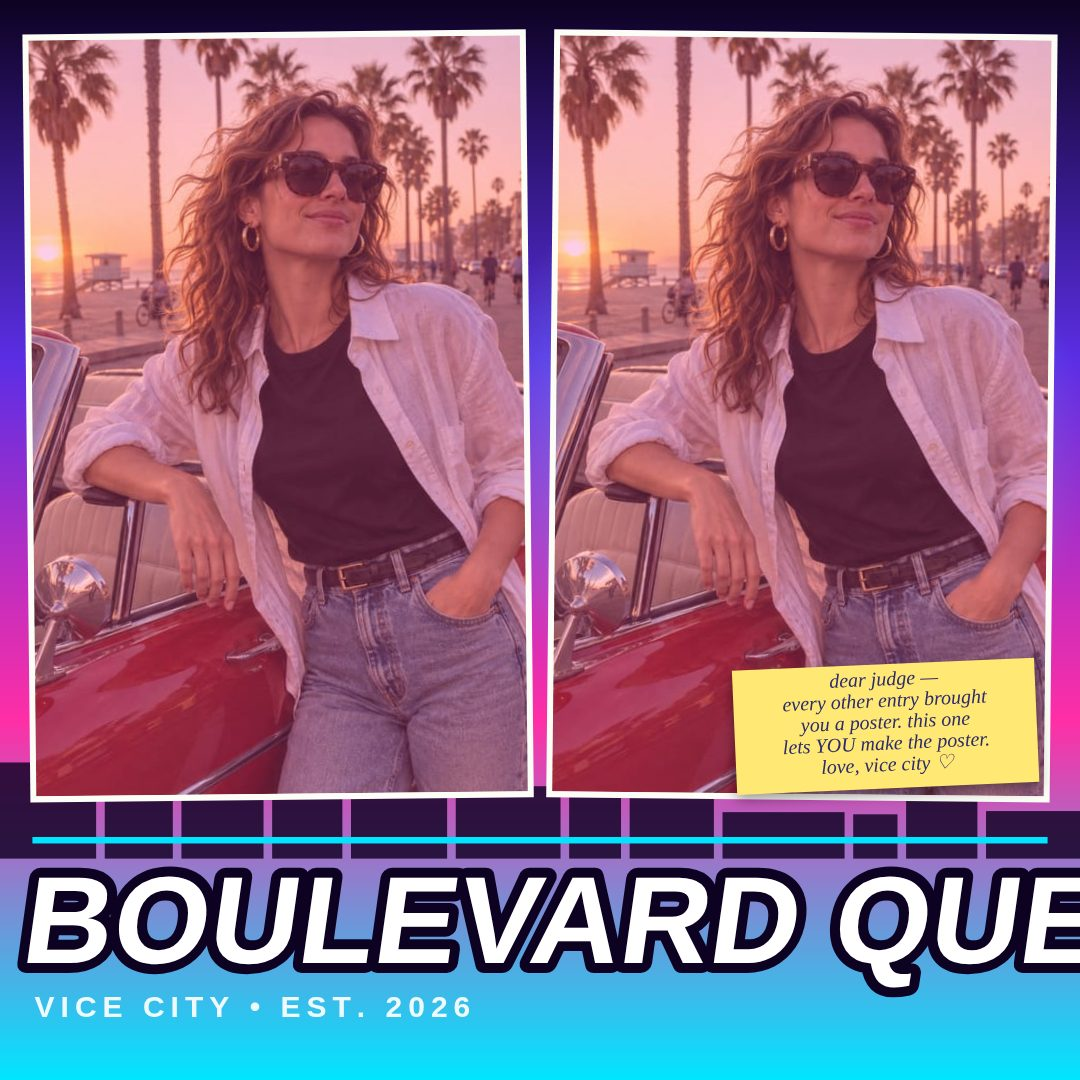
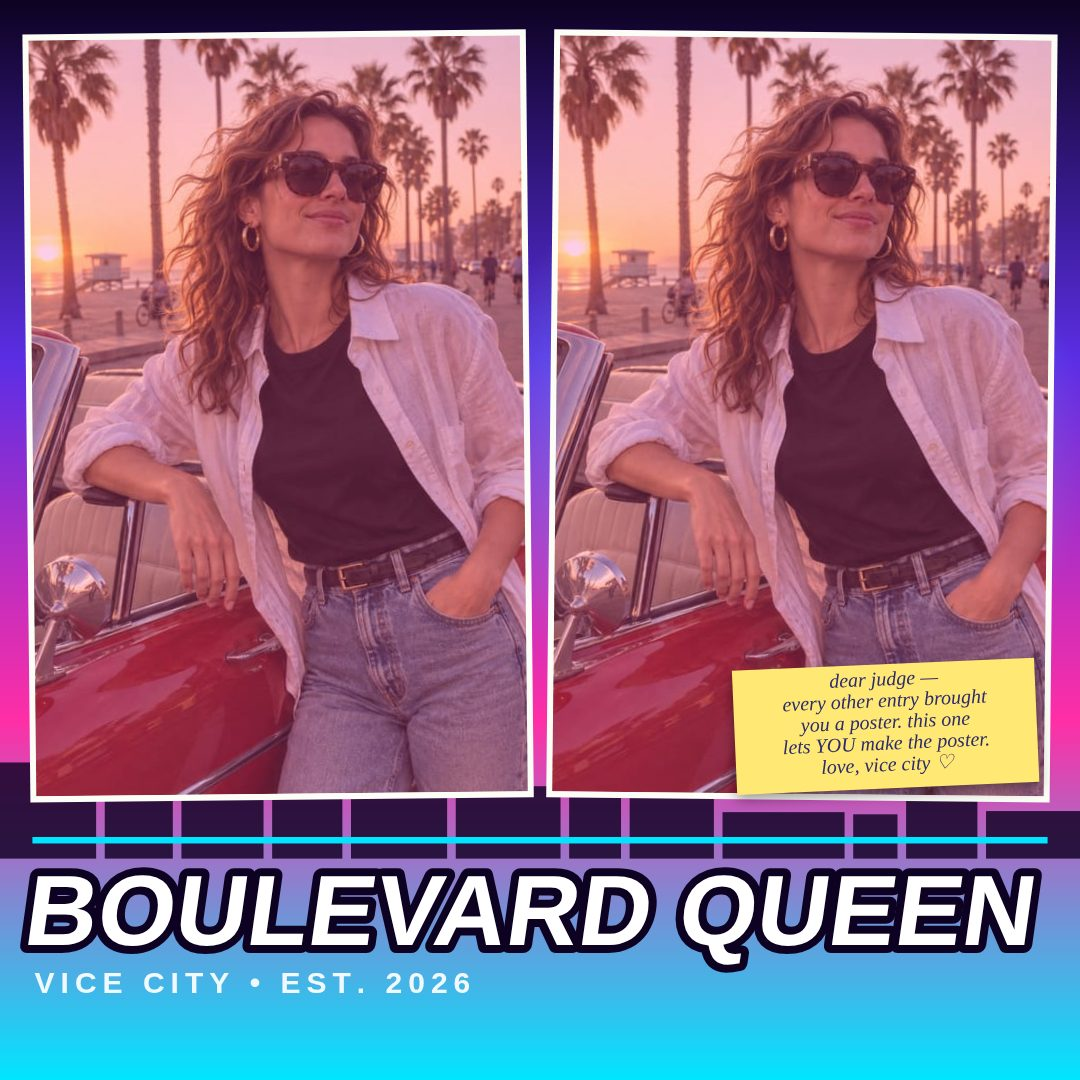
Auto-fit long titles; regenerate screenshots

Changed region(s): [[0.0, 0.7944, 1.0, 0.9472]]

diff --git a/app/vice.js b/app/vice.js
@@ -144,13 +144,24 @@ function drawPanels(W, H) {
   });
 }
 
+/* Shrink the title font until the text fits maxWidth (long titles). */
+function fitTitle(c, text, maxWidth, baseSize) {
+  let size = baseSize;
+  c.font = `900 ${size}px "Arial Black", Arial, sans-serif`;
+  while (size > 36 && c.measureText(text).width > maxWidth) {
+    size -= 4;
+    c.font = `900 ${size}px "Arial Black", Arial, sans-serif`;
+  }
+  return size;
+}
+
 function drawTitle(W, H) {
   const g = GRADES[state.grade];
   const bandY = H * 0.775;
   // Hot-pink bar above the title, like a poster masthead rule.
   ctx.fillStyle = g.bar;
   ctx.fillRect(W * 0.03, bandY, W * 0.94, Math.max(4, H * 0.006));
-  const size = Math.round(W * 0.115);
+  const size = fitTitle(ctx, state.title.toUpperCase(), W * 0.94, Math.round(W * 0.115));
   ctx.save();
   ctx.translate(W * 0.03, bandY + H * 0.028);
   ctx.transform(1, 0, -0.14, 1, 0, 0); // slight lean, condensed-poster feel
@@ -328,7 +339,7 @@ function drawOntoImpl(target, c) {
   const bandY = H * 0.775;
   c.fillStyle = g.bar;
   c.fillRect(W * 0.03, bandY, W * 0.94, Math.max(4, H * 0.006));
-  const size = Math.round(W * 0.115);
+  const size = fitTitle(c, state.title.toUpperCase(), W * 0.94, Math.round(W * 0.115));
   c.save();
   c.translate(W * 0.03, bandY + H * 0.028);
   c.transform(1, 0, -0.14, 1, 0, 0);
